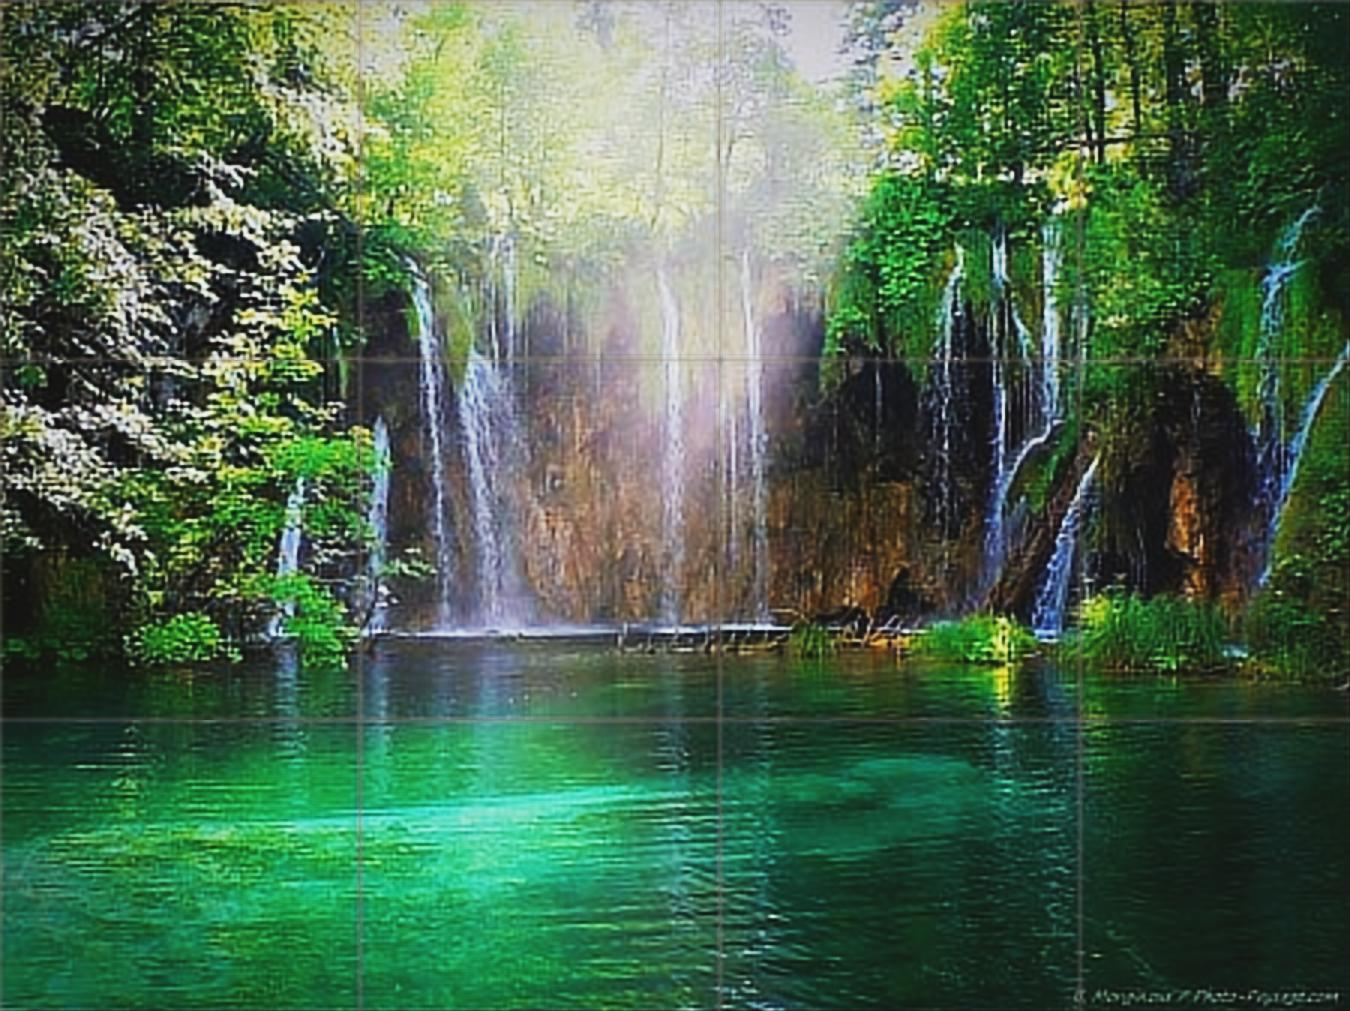
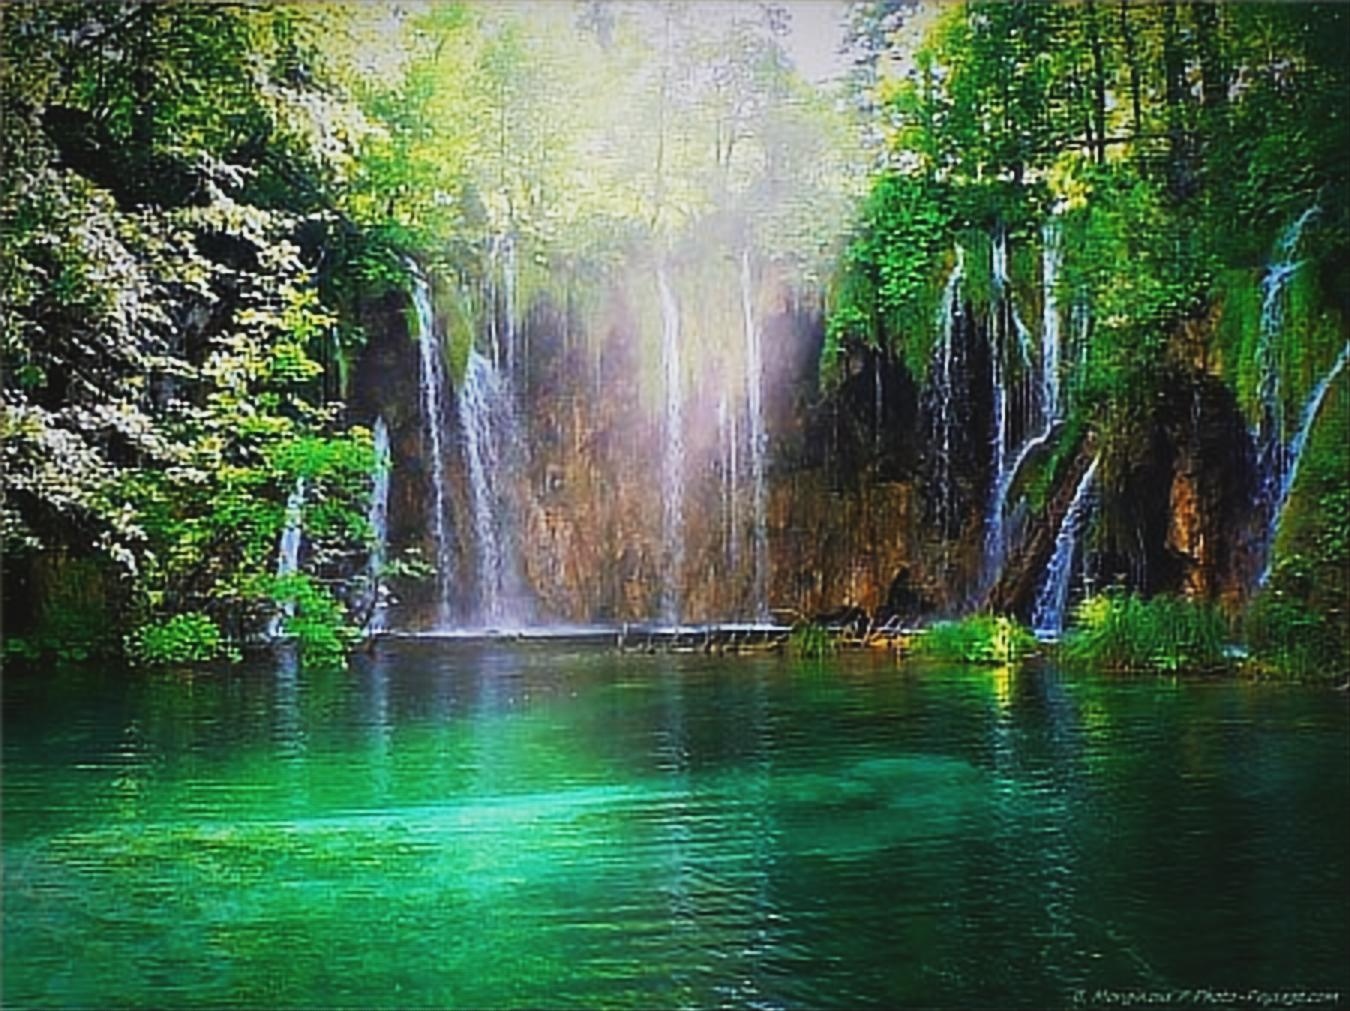
Prediction program patch creation

diff --git a/src/predict.py b/src/predict.py
@@ -1,6 +1,7 @@
 import os
 from tqdm import tqdm
 import numpy as np
+import math
 
 import torch
 from torchvision import transforms
@@ -66,45 +67,150 @@ def save_image(config, prediction, image_name, image_shape):
         os.mkdir(dst_path)
 
     size_patches = config.data.image_size
+    size_overlay = 20
     upscale_facor = config.upscale_factor
     big_size_patches = size_patches * upscale_facor
+    big_size_overlay = size_overlay * upscale_facor
 
     canal, x, y = image_shape
-    x_modified = x + (size_patches - x % size_patches) if x % size_patches != 0 else x
-    y_modified = y + (size_patches - y % size_patches) if y % size_patches != 0 else y    
 
-    # Calculer le nombre de sous-images dans chaque dimension
-    nb_patches_x = x_modified // size_patches
-    nb_patches_y = y_modified // size_patches
+    # Calculate the number of patches in each dimension
+    nb_patches_x = math.ceil((x-size_patches)/(size_patches-size_overlay))+1
+    nb_patches_y = math.ceil((y-size_patches)/(size_patches-size_overlay))+1
     nb_patches = nb_patches_x * nb_patches_y
+    # Calculate the modified image dimensions
+    
+    x_modifie = big_size_patches+(big_size_patches-big_size_overlay)*(nb_patches_x-1)
+    y_modifie = big_size_patches+(big_size_patches-big_size_overlay)*(nb_patches_y-1)
 
-
-    # Vérifier que le nombre de sous-images correspond
+    # Verified that the number of patches correspond to the number of images obtained
     assert nb_patches == prediction.shape[0], "The number of patches does not correspond to the size of the original image."
 
-    # Créer un tenseur pour stocker l'image reconstituée
+    # Create a tensor to stock the reconstructed image
     hr_image = torch.zeros((canal, x * upscale_facor, y * upscale_facor))
+    # Create the tensor for the modified image with black border
+    image_modifiee = torch.zeros((canal, x_modifie, y_modifie))
 
-    # Reconstituer l'image en assemblant les sous-images
-    idx = 0
+    # Reconstruct the image by assembling the patches
+    # idx = 0
     for i in range(nb_patches_x):
         for j in range(nb_patches_y):
-            begin_x = i * big_size_patches
-            begin_y = j * big_size_patches
-            end_x = begin_x + big_size_patches
-            end_y = begin_y + big_size_patches
+            idx = i*nb_patches_y+j
+            begin_x=i*(big_size_patches-big_size_overlay)+(i>0)*big_size_overlay//2
+            begin_y=j*(big_size_patches-big_size_overlay)+(j>0)*big_size_overlay//2
+            end_x=i*(big_size_patches-big_size_overlay)+big_size_patches-(i<nb_patches_x-1)*big_size_overlay//2
+            end_y=j*(big_size_patches-big_size_overlay)+big_size_patches-(j<nb_patches_y-1)*big_size_overlay//2
+            centered_begin_x = i*(big_size_patches-big_size_overlay)+ big_size_overlay-(i>0)*big_size_overlay//2
+            centered_begin_y = j*(big_size_patches-big_size_overlay)+ big_size_overlay-(j>0)*big_size_overlay//2
+            centered_end_x = i*(big_size_patches-big_size_overlay)+big_size_patches - big_size_overlay + (i<nb_patches_x-1)*big_size_overlay//2
+            centered_end_y = j*(big_size_patches-big_size_overlay)+big_size_patches - big_size_overlay + (j<nb_patches_y-1)*big_size_overlay//2
 
-            if end_x > x * upscale_facor:
-                end_x = x * upscale_facor
-            if end_y > y * upscale_facor:
-                end_y = y * upscale_facor
+            begin_loc_x = (i>0)*big_size_overlay//2
+            begin_loc_y = (j>0)*big_size_overlay//2
+            end_loc_x = big_size_patches-(i<nb_patches_x-1)*big_size_overlay//2
+            end_loc_y = big_size_patches-(j<nb_patches_y-1)*big_size_overlay//2
+            center_begin_loc_x = big_size_overlay-(i>0)*big_size_overlay//2
+            center_begin_loc_y = big_size_overlay-(j>0)*big_size_overlay//2
+            center_end_loc_x = big_size_patches-big_size_overlay+(i<nb_patches_x-1)*big_size_overlay//2
+            center_end_loc_y = big_size_patches-big_size_overlay+(j<nb_patches_y-1)*big_size_overlay//2
 
-            end_patches_x = int(end_x - begin_x)
-            end_patches_y =  int(end_y - begin_y)
+            # Center
+            image_modifiee[:,centered_begin_x:centered_end_x,centered_begin_y:centered_end_y] = prediction[idx,:,center_begin_loc_x:center_end_loc_x,center_begin_loc_y:center_end_loc_y]
+            # Upper left corner
+            coeff = 0
+            if not(i == 0):
+                coeff = coeff + 2            
+            if not(j == 0):
+                coeff = coeff + 2
+            if coeff == 0:
+                coeff = 1
+            image = torch.div(prediction[idx,:,begin_loc_x:center_begin_loc_x,begin_loc_y:center_begin_loc_y],coeff)
+            image_modifiee[:,begin_x:centered_begin_x,begin_y:centered_begin_y] += image
+            # Upper right corner
+            coeff = 0
+            if (not(i == nb_patches_x-1)):
+                coeff = coeff + 2
+            if not(j == 0):
+                coeff = coeff + 2
+            if coeff == 0:
+                coeff = 1
+            image = torch.div(prediction[idx,:,center_end_loc_x:end_loc_x,begin_loc_y:center_begin_loc_y],coeff)
+            image_modifiee[:,centered_end_x:end_x,begin_y:centered_begin_y] += image
+            # Lower left corner
+            coeff = 0
+            if not(i == 0):
+                coeff = coeff + 2            
+            if not(j == nb_patches_y-1):
+                coeff = coeff + 2
+            if coeff == 0:
+                coeff = 1
+                
+            image = torch.div(prediction[idx,:,begin_loc_x:center_begin_loc_x,center_end_loc_y:end_loc_y],coeff)
+            image_modifiee[:,begin_x:centered_begin_x,centered_end_y:end_y] += image
+            # Lower right corner
+            coeff = 0
+            if not(i == nb_patches_x-1):
+                coeff = coeff + 2            
+            if not(j == nb_patches_y-1):
+                coeff = coeff + 2
+            if coeff == 0:
+                coeff = 1
+            image = torch.div(prediction[idx,:,center_end_loc_x:end_loc_x,center_end_loc_y:end_loc_y],coeff)
+            image_modifiee[:,centered_end_x:end_x,centered_end_y:end_y] += image
 
-            hr_image[:, begin_x:end_x, begin_y:end_y] = prediction[idx, :, :end_patches_x, :end_patches_y]
-            idx += 1
-    
+            # Border right
+            if not(i == 0):
+                coeff =  2
+            
+            else:
+                coeff = 1
+            
+            image = torch.div(prediction[idx,:,begin_loc_x:center_begin_loc_x, center_begin_loc_y:center_end_loc_y],coeff)
+            image_modifiee[:,begin_x:centered_begin_x,centered_begin_y:centered_end_y] += image
+
+            # Border left
+            if not(i == nb_patches_x-1):
+                coeff =  2
+            else:
+                coeff = 1
+
+            image = torch.div(prediction[idx,:,center_end_loc_x:end_loc_x, center_begin_loc_y:center_end_loc_y],coeff)
+            image_modifiee[:,centered_end_x:end_x,centered_begin_y:centered_end_y] += image
+            
+             # Upper border
+            if not(j == 0):
+                coeff = 2
+            else:
+                coeff = 1
+            
+            image = torch.div(prediction[idx,:, center_begin_loc_x:center_end_loc_x,begin_loc_y:center_begin_loc_y],coeff)
+            image_modifiee[:,centered_begin_x:centered_end_x,begin_y:centered_begin_y] += image
+
+            # Lower border
+            if not(j == nb_patches_y-1):
+                coeff =  2
+            else:
+                coeff = 1
+            image = torch.div(prediction[idx,:, center_begin_loc_x:center_end_loc_x,center_end_loc_y:end_loc_y],coeff)
+            image_modifiee[:,centered_begin_x:centered_end_x,centered_end_y:end_y] += image
+
+            # begin_x = i * big_size_patches
+            # begin_y = j * big_size_patches
+            # end_x = begin_x + big_size_patches
+            # end_y = begin_y + big_size_patches
+
+            # if end_x > x * upscale_facor:
+            #     end_x = x * upscale_facor
+            # if end_y > y * upscale_facor:
+            #     end_y = y * upscale_facor
+
+            # end_patches_x = int(end_x - begin_x)
+            # end_patches_y =  int(end_y - begin_y)
+
+            # hr_image[:, begin_x:end_x, begin_y:end_y] = prediction[idx, :, :end_patches_x, :end_patches_y]
+            # idx += 1
+    hr_image=image_modifiee[:,:x*upscale_facor,:y*upscale_facor]
+
     saving_path = os.path.join(dst_path, image_name[:-4] + config.predict.end_image_name + image_name[-4:])
 
     image = transforms.ToPILImage()(hr_image)

diff --git a/src/dataloader.py b/src/dataloader.py
@@ -1,5 +1,5 @@
 import os
-
+import math
 import torch
 from torchvision.io import read_image
 from torch.utils.data import Dataset, DataLoader
@@ -42,7 +42,7 @@ class DataGenerator(Dataset):
         """
         hr_image = read_image(os.path.join(self.HR_path, self.HR_data[index]))
         lr_image = read_image(os.path.join(self.LR_path, self.LR_data[index]))
-        
+
         if self.normalisation:
             lr_image = lr_image / 255
             hr_image = hr_image / 255
@@ -53,9 +53,9 @@ class DataGenerator(Dataset):
 def create_generator(config, mode):
     """Returns generator from a config and a mode ('train','val','test')"""
     generator = DataGenerator(config, mode)
-    return DataLoader(generator, 
-                      batch_size=config[mode].batch_size, 
-                      shuffle=config[mode].shuffle, 
+    return DataLoader(generator,
+                      batch_size=config[mode].batch_size,
+                      shuffle=config[mode].shuffle,
                       drop_last=config[mode].drop_last)
 
 
@@ -92,44 +92,59 @@ class PredictGenerator(Dataset):
         """
         lr_image = read_image(os.path.join(self.src_path, self.images_name[index]))
         shape = lr_image.shape
-
+        size_overlay = 20
+        size_patches = self.size_patches
         if self.normalisation:
             lr_image = lr_image / 255
 
         canal, x, y = lr_image.shape
 
-        # Calculer les dimensions modifiées de l'image
-        x_modifie = x + (self.size_patches - x % self.size_patches) if x % self.size_patches != 0 else x
-        y_modifie = y + (self.size_patches - y % self.size_patches) if y % self.size_patches != 0 else y
+        # Calculate the number of patches in each dimension
+        nb_patches_x = math.ceil((x-size_patches)/(size_patches-size_overlay))+1
+        nb_patches_y = math.ceil((y-size_patches)/(size_patches-size_overlay))+1
+        nb_patches = nb_patches_x * nb_patches_y
 
-        # Créer un tenseur pour l'image modifiée
+        # Calculate the modified image dimensions
+        # x_modifie = x + (self.size_patches - x % self.size_patches) if x % self.size_patches != 0 else x
+        # y_modifie = y + (self.size_patches - y % self.size_patches) if y % self.size_patches != 0 else y
+        x_modifie = size_patches+(size_patches-size_overlay)*(nb_patches_x-1)
+        y_modifie = size_patches+(size_patches-size_overlay)*(nb_patches_y-1)
+        
+        # Create the tensor for the modified image
         image_modifiee = torch.zeros((canal, x_modifie, y_modifie))
 
-        # Copier les valeurs de l'image d'origine
+        # Copy the original image in the modified image
         image_modifiee[:, :x, :y] = lr_image
 
         c, w, h = image_modifiee.shape
-        
-        
-        # Calculate the number of patches in each dimension
-        nb_patches_x = w // self.size_patches
-        nb_patches_y = h // self.size_patches
-        nb_patches = nb_patches_x * nb_patches_y
+
+        # nb_patches_x = w // self.size_patches
+        # nb_patches_y = h // self.size_patches
+
+
 
         # Create torsor to save patches
         patches = torch.zeros((nb_patches, c, self.size_patches, self.size_patches))
 
         # Cutting the image into patches
-        idx = 0
+        # idx = 0
         for i in range(nb_patches_x):
-            for j in range(nb_patches_y):
-                begin_x = i * self.size_patches
-                begin_y = j * self.size_patches
-                fin_x = begin_x + self.size_patches
-                fin_y = begin_y + self.size_patches
-                sous_image = image_modifiee[:, begin_x:fin_x, begin_y:fin_y]
-                patches[idx] = sous_image
-                idx += 1
+            for j in range(nb_patches_y):                
+                # begin_x = i * self.size_patches
+                # begin_y = j * self.size_patches
+                # fin_x = begin_x + self.size_patches #begin in english and fin in french XD
+                # fin_y = begin_y + self.size_patches
+                # sous_image = image_modifiee[:, begin_x:fin_x, begin_y:fin_y]
+                # patches[idx] = sous_image
+                # idx += 1
+                idx = i*nb_patches_y+j
+                begin_x=i*(size_patches-size_overlay)
+                begin_y=j*(size_patches-size_overlay)
+                end_x=begin_x+size_patches
+                end_y=begin_y+size_patches
+                sous_image=image_modifiee[:, begin_x:end_x, begin_y:end_y]
+                patches[idx] = sous_image    
+                
 
         return patches, self.images_name[index], shape
 
@@ -137,7 +152,7 @@ class PredictGenerator(Dataset):
 def create_predict_generator(config):
     """Return the prediction's generator from a config """
     generator = PredictGenerator(config)
-    return DataLoader(generator, 
-                      batch_size=1, 
-                      shuffle=False, 
+    return DataLoader(generator,
+                      batch_size=1,
+                      shuffle=False,
                       drop_last=False)
